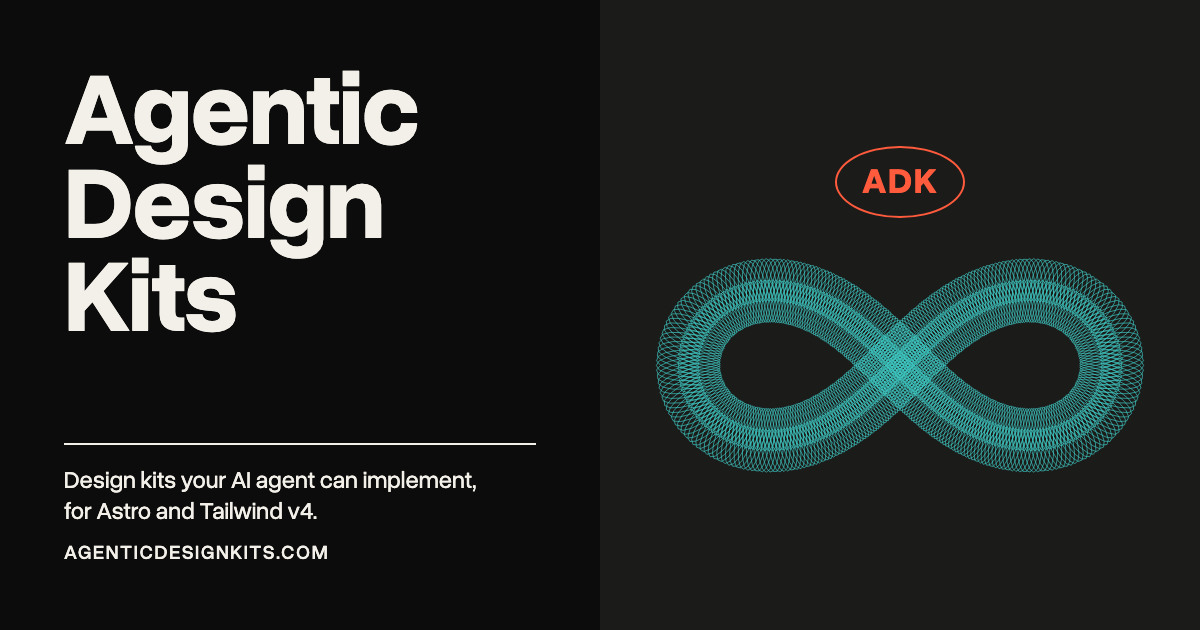
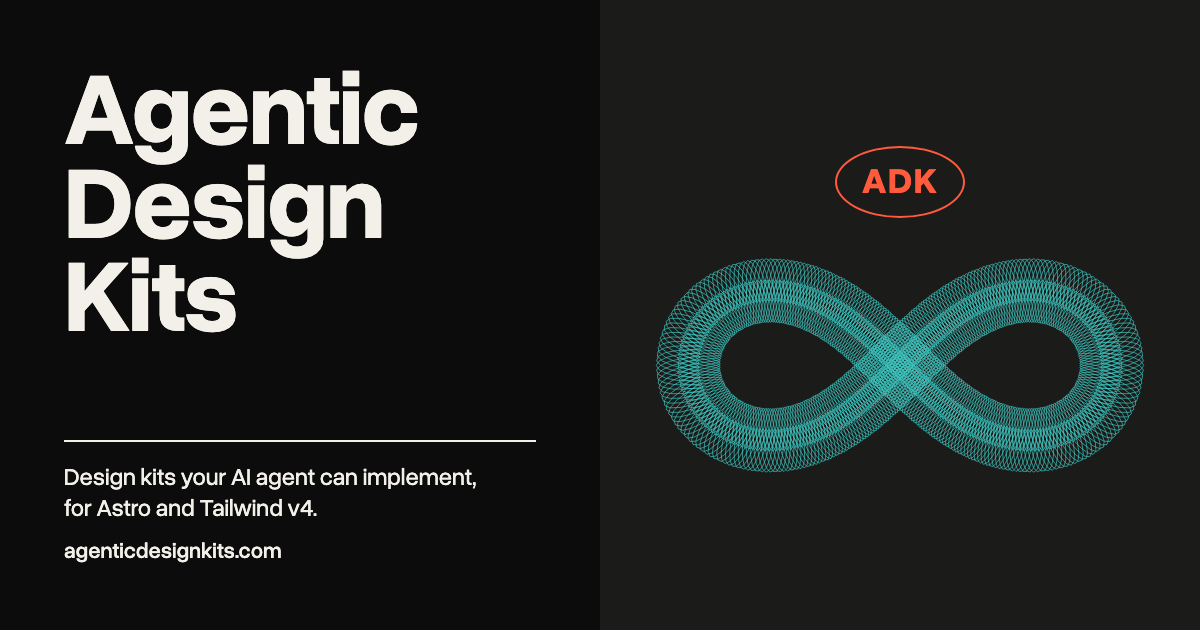
Share the dark card, with the address in lowercase
The landing page now shares the dark card, as both demos do, and the
address on both cards is set in lowercase at a slightly larger size,
without the spaced capitals.

Changed region(s): [[0.0617, 0.6937, 0.4625, 0.9048]]

diff --git a/site/tests/page.spec.ts b/site/tests/page.spec.ts
@@ -54,12 +54,12 @@ test('a kit row links its name and its arrow, and leaves its description as sele
 test('a link preview gets the share card, at its full address', async ({ page, request }) => {
   await page.goto('/');
   const og = (property: string) => page.locator(`meta[property="og:${property}"]`);
-  await expect(og('image')).toHaveAttribute('content', 'https://www.agenticdesignkits.com/share-light.png');
+  await expect(og('image')).toHaveAttribute('content', 'https://www.agenticdesignkits.com/share-dark.png');
   await expect(og('url')).toHaveAttribute('content', 'https://www.agenticdesignkits.com/');
   await expect(og('title')).toHaveAttribute('content', 'Agentic Design Kits');
   await expect(page.locator('meta[name="twitter:card"]')).toHaveAttribute('content', 'summary_large_image');
   // The card itself is served from the site, at 1200 × 630.
-  const card = await request.get('/share-light.png');
+  const card = await request.get('/share-dark.png');
   expect(card.ok()).toBe(true);
   const png = await card.body();
   expect([png.readUInt32BE(16), png.readUInt32BE(20)]).toEqual([1200, 630]);

diff --git a/site/scripts/share-images.ts b/site/scripts/share-images.ts
@@ -29,7 +29,7 @@ const card = ({ paper, ink, panel }: { paper: string; ink: string; panel: string
   h1 { font-size: 104px; font-weight: 700; line-height: 0.9; letter-spacing: -0.02em; }
   .foot { border-top: 2px solid ${ink}; padding-top: 20px; }
   .lead { font-size: 24px; line-height: 1.3; }
-  .url { margin-top: 12px; font-size: 20px; font-weight: 500; letter-spacing: 0.08em; text-transform: uppercase; }
+  .url { margin-top: 12px; font-size: 22px; font-weight: 500; }
   .art { width: 600px; height: 630px; background: ${panel}; display: flex; flex-direction: column;
          align-items: center; justify-content: center; gap: 28px; padding: 0 44px; }
   .ellipse { display: flex; align-items: center; justify-content: center;

diff --git a/site/AGENTS.md b/site/AGENTS.md
@@ -15,7 +15,7 @@ USING.md, DESIGN.md (the rules, and its "Do not" list) and the parts of COMPONEN
 - A fix to a component belongs in ../kit, never here.
 - The README at the repository's root shows the hero's infinity sign as .github/readme/infinity.svg.
   After changing src/components/infinity.ts or its colors, run `npm run readme-art` at the root.
-- The share card (public/share-light.png, and share-dark.png beside it) is drawn by
+- The share card (public/share-dark.png, and share-light.png beside it) is drawn by
   scripts/share-images.ts. After changing the name, the lead, the colors or the sign, run
   `npm run share-images` here.
 - Before calling a change done: npx astro check, npm run build and npm test.
